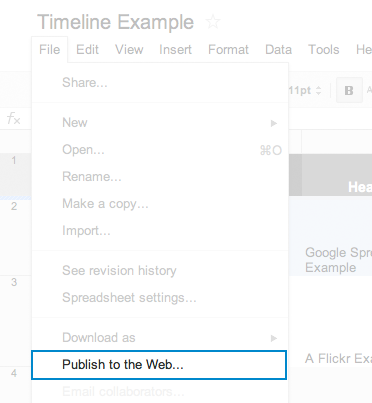
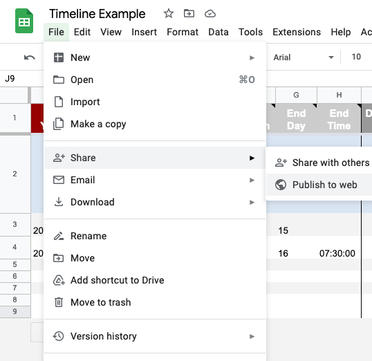
update to reflect changed location of 'publish to web'; remove obsolete step

diff --git a/website/templates/_make.html b/website/templates/_make.html
@@ -24,14 +24,14 @@
                     <div class="grid">
                         <div class="grid-item">
                             <p>
-                                <img class="img-shadow make-step-2" src="static/img/make/publish_to_web_small.png" /> Under the File menu, select “Publish to the Web.” </p>
+                                <img class="img-shadow make-step-2" src="static/img/make/publish_to_web_small.png" /> Under the <em>File</em> menu, Share submenu, select “Publish to the Web.” </p>
                             <p class="note">
                                 <strong>Don't set your Timeline Google Sheet to "anyone with the link can edit."</strong> It isn't necessary, and could lead to someone changing your timeline without your consent.
                             </p>
 
 
                             <p style="clear: both;">
-                                <img class="img-shadow make-step-2" src="static/img/make/publish_to_web_button_small-od1.png" /> In the next window, change the menu that reads "entire document" to "od1." Then, click the blue "publish" button. When asked,
+                                <img class="img-shadow make-step-2" src="static/img/make/publish_to_web_button_small-od1.png" /> In the next window, click the green "Publish" button. When asked,
                                 "Are you sure…?" click OK. <em>Ignore the URL that appears in the center of the window.</em> Just close the window using the <em>X</em> in the top right corner.
 
                             </p>

diff --git a/website/templates/docs/options.html b/website/templates/docs/options.html
@@ -482,7 +482,7 @@
                         ""
                     </div>
                     <div class="column-8">
-                        Can be used to help Timeline load related resources such as CSS themes and language files. Rarely needs to be set.
+                        Can be used to help Timeline load related resources such as CSS themes and language files. Rarely needs to be set, except if you are bundling the TimelineJS javascript code with other javascript, so that the script it load from isn't in the same "relative" location to your local copy of those resources. 
                     </div>
                 </div>
     </section>
